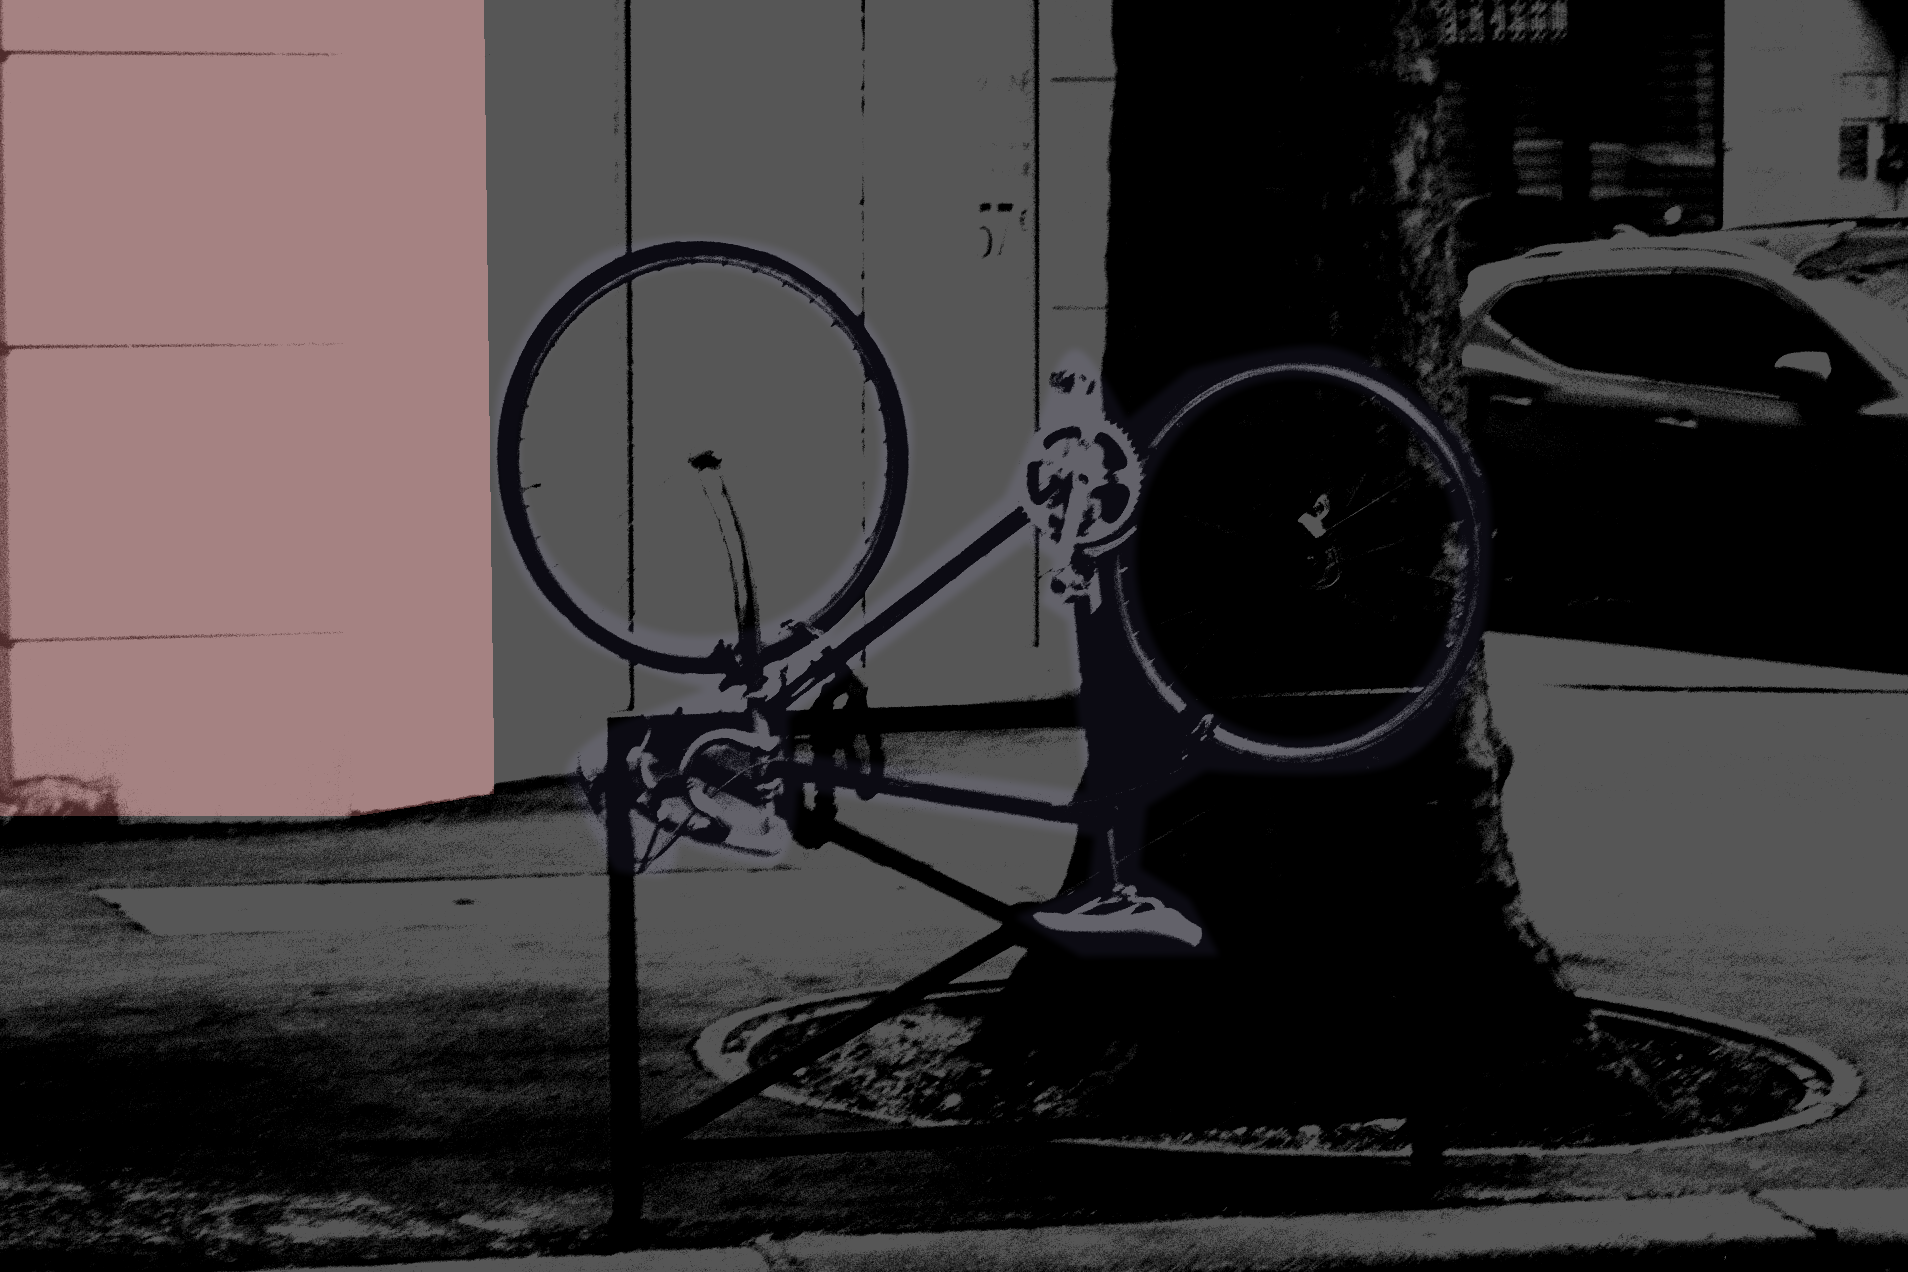
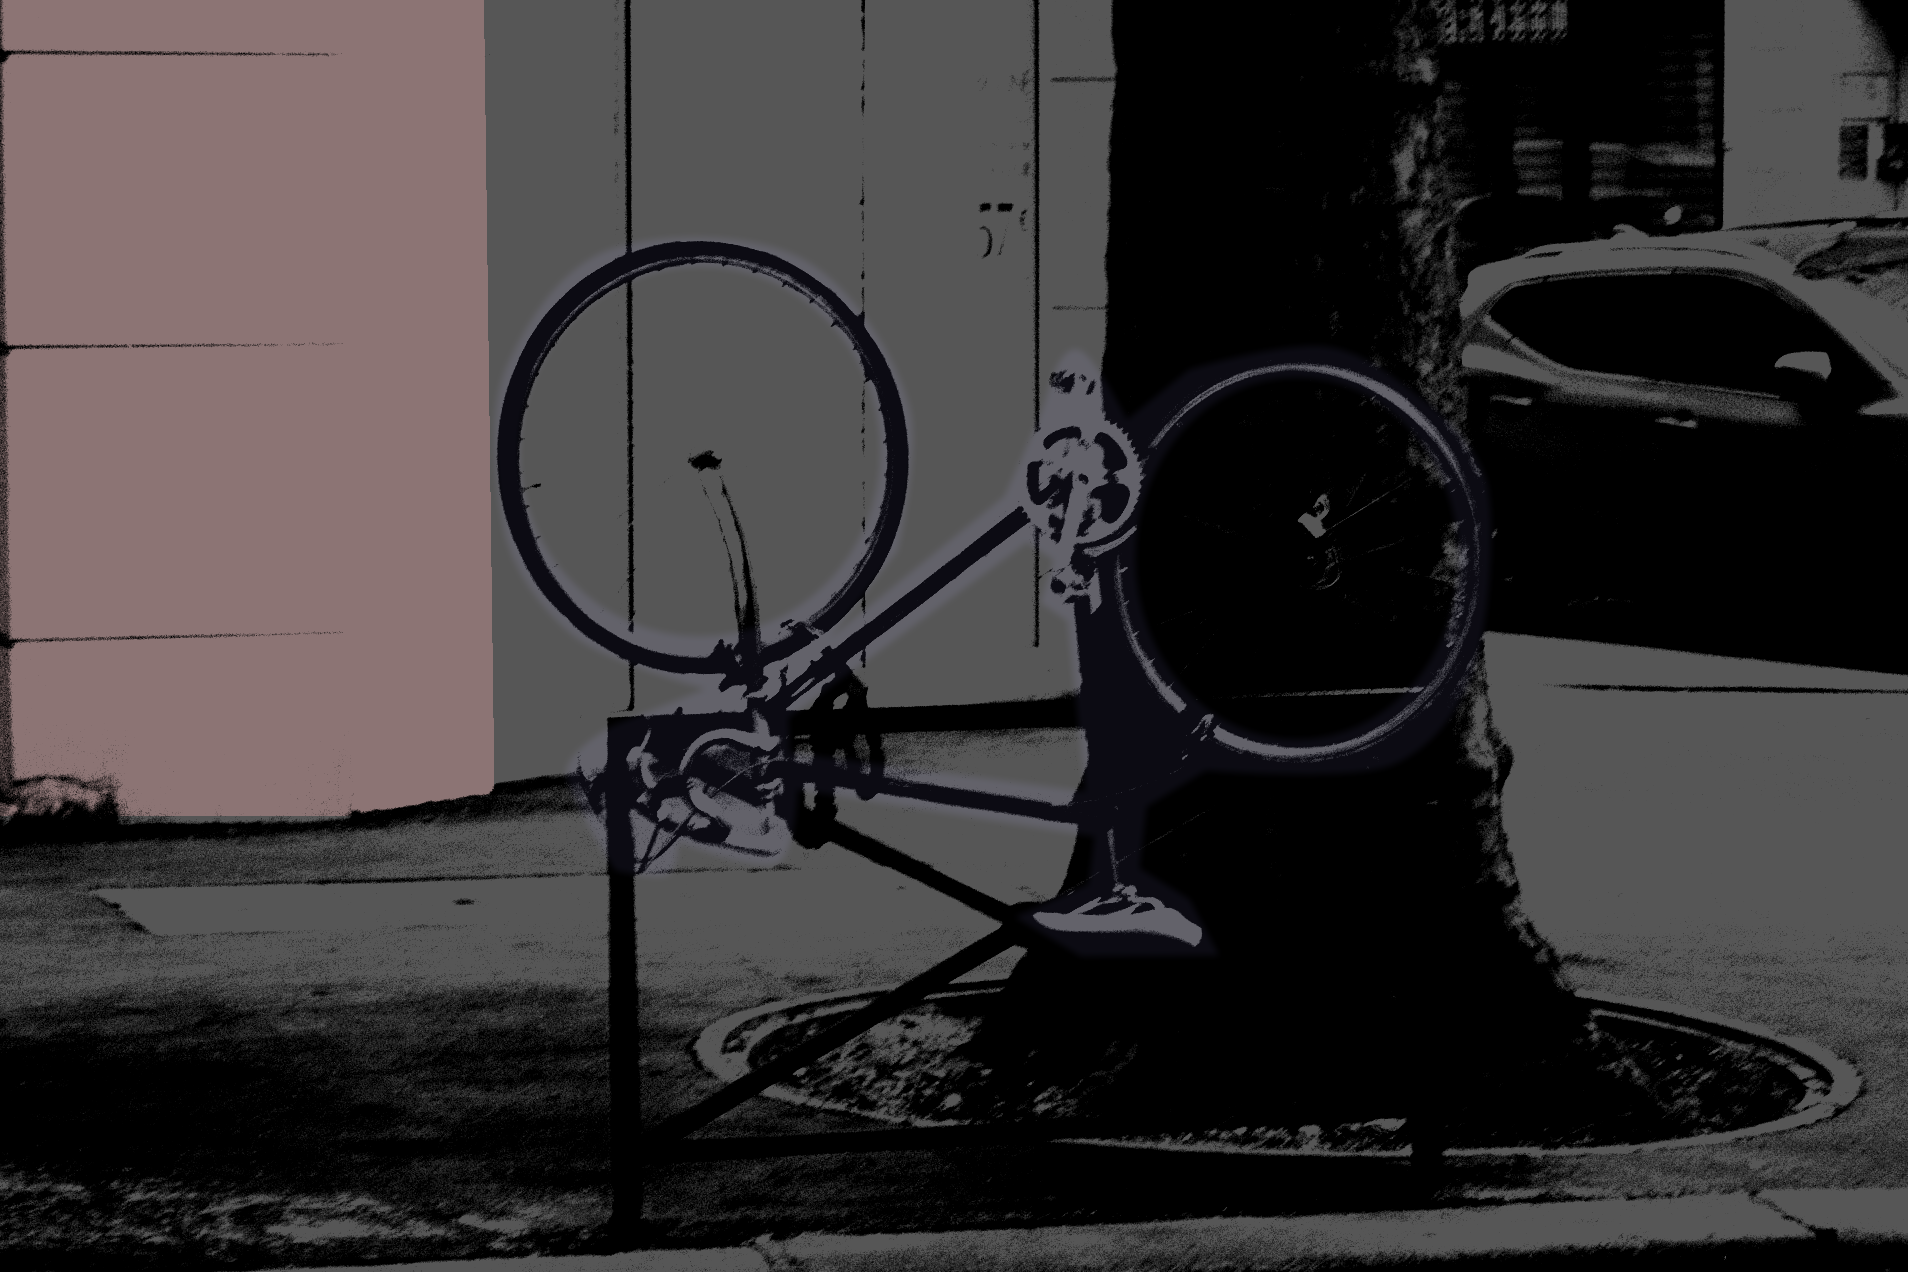
MultiplyBlend added

Changed region(s): [[0.0, 0.0, 0.2783, 0.6439]]

diff --git a/src/img_comp_engine/blend.py b/src/img_comp_engine/blend.py
@@ -24,6 +24,11 @@ class DifferenceBlend(Blend):
     def apply(self, background: np.ndarray, image: np.ndarray, opacity: float) -> np.ndarray:
         difference = np.abs(background - image)
         return background * (1-opacity) + difference * opacity
+
+class MultiplyBlend(Blend):
+    def apply(self, background: np.ndarray, image: np.ndarray, opacity: float) -> np.ndarray:
+        multiplied = background * image
+        return background * (1 - opacity) + multiplied * opacity
     
 """
 def blend_layers(background: np.ndarray, image: np.ndarray, opacity: float, output_dir: str | Path) -> np.ndarray:
@@ -39,6 +44,8 @@ def blend_layers(background: np.ndarray, image: np.ndarray, opacity:float, blend
              blend = NormalBlend()
         elif blend_mode == "difference":
              blend = DifferenceBlend()
+        elif blend_mode == "multiply":
+             blend = MultiplyBlend()
         else:
              raise ValueError(f"Mode de mélange non pris en charge :{blend_mode}")
         
